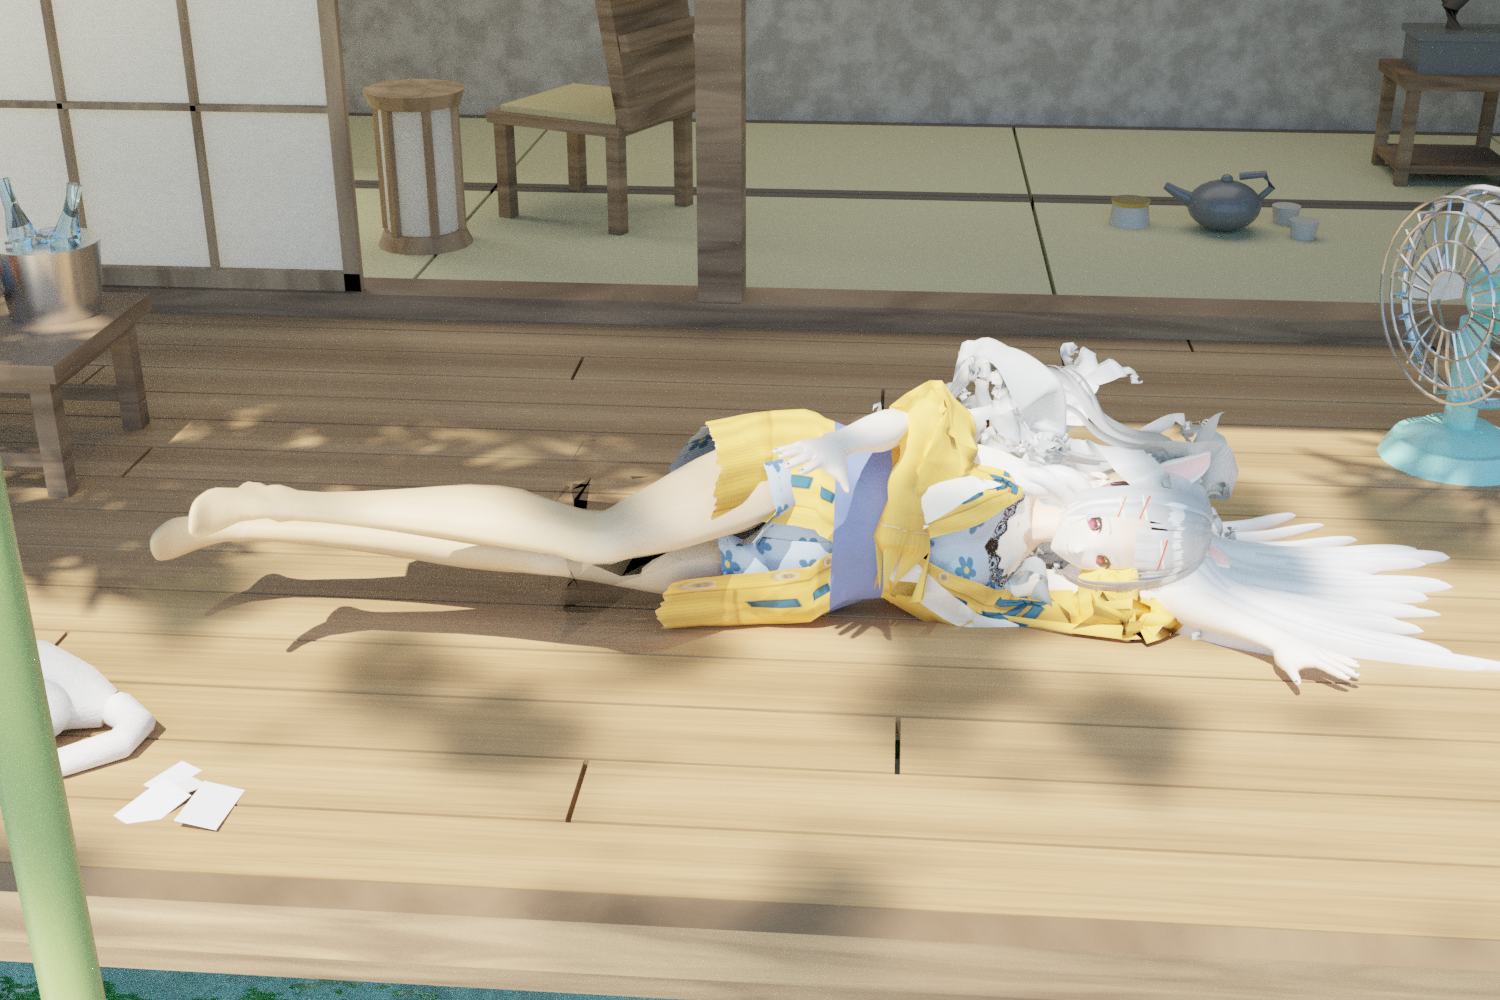
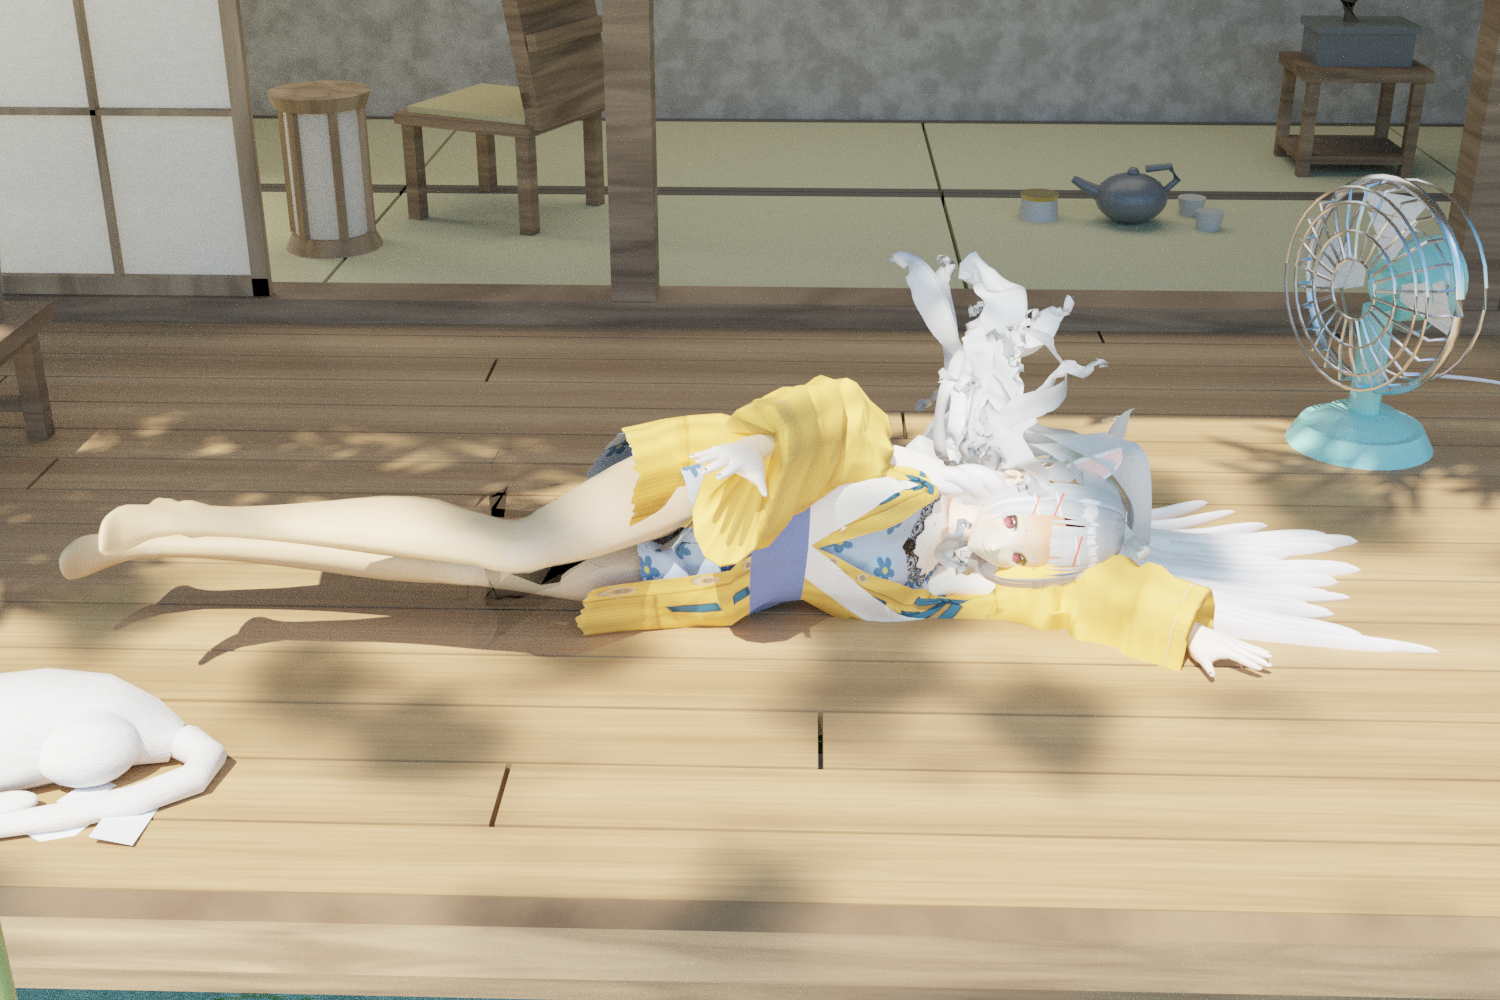
Shear the long hair cards and let the grown locks be the hair
Simulating the long cards was honest physics and a bad picture. They fall, they
spread, they collide -- and each one is a wide flat ribbon with an alpha-cut
tip, so a couple of dozen falling onto each other and onto her shoulder buckle
and knot into a pile of crumpled paper with a spike standing out of it. No
stiffness setting fixes that. The primitive is wrong, which is what you said
about the hair three messages before I believed it.

So the long cards are deleted and the same hair is re-grown by build_spread as
many thin locks. What stays rigid is the cap and the fringe -- the part that
makes the haircut, and that has no length to fall with. The rigid threshold
also came down from 0.25: at that value the "haircut" still included flaps
reaching 18 cm from the scalp, fine standing where they hang beside her head,
and a paper pile standing straight off her once she is on her side.

The locks start on the back of the skull, which two failures bracket. Started
at the head joint -- the middle of her head -- the near-side locks began level
with her cheek and crossed her face. Started a full skull behind it they began
past her head altogether and left the crown bare, and with the cards sheared
what shows through a gap there is dark scalp.

Claude-Session: https://claude.ai/code/session_01KdiKTGuNFyVJk3TLR4SJ8Q

diff --git a/CharacterPrototype/tools/blender_hairsim.py b/CharacterPrototype/tools/blender_hairsim.py
@@ -30,6 +30,7 @@ spread comes out of the motion rather than having to be authored.
 import os
 import sys
 
+import bmesh
 import bpy
 from mathutils import Vector
 
@@ -53,7 +54,13 @@ ROOT_MARGIN = 0.030
 # quarters of them reach under 0.11 m, and the next ones up reach 0.54 m, with
 # nothing in between. That gap is the haircut on one side and the long hair on
 # the other, so it is where the line goes: 124 cards keep their shape, 28 fall.
-RIGID_REACH = 0.250
+# Lowered from 0.25 after seeing the full frame. At 0.25 the 124 "haircut"
+# cards included flaps reaching 18 cm from the scalp -- fine standing, where
+# they hang beside her head, and a pile of crumpled paper standing straight up
+# off her once she is on her side. Only the cards that genuinely cap the scalp
+# should be rigid; anything with real length has to be allowed to fall, which
+# is the whole point of lying her down.
+RIGID_REACH = 0.105
 
 
 def log(*a):
@@ -378,3 +385,44 @@ def add_garment_cloth(obj, loose_bones=SLEEVE_BONES, colliders=None):
     pin_all_but(obj, loose_bones)
     return add_cloth(obj, pin_group="ClothPins", settings=GARMENT_CLOTH,
                      self_collision=False, colliders=colliders)
+
+
+def shear_long_cards(obj, centre, rigid_reach=RIGID_REACH):
+    """Delete the cards that have real length, leaving the scalp cap.
+
+    Simulating them was the honest answer and it does work as physics -- they
+    fall, they spread, they collide. It does not work as a PICTURE: each card
+    is a wide flat ribbon with an alpha-cut tip, and a couple of dozen of those
+    falling onto each other and onto her shoulder buckle and knot into a pile
+    of crumpled paper with a spike standing out of it. No amount of stiffness
+    fixes that; the primitive is wrong.
+
+    So the long hair is deleted here and re-grown by blender_hair.build_spread,
+    which draws it as many thin locks instead of a few wide ribbons. What stays
+    is the cap and the fringe, which are what make the haircut, and which have
+    no length to fall with.
+    """
+    mesh = obj.data
+    matrix = obj.matrix_world
+    distance = [(matrix @ v.co - centre).length for v in mesh.vertices]
+
+    doomed = set()
+    cards = 0
+    for island in mesh_islands(mesh):
+        nearest = min(distance[i] for i in island)
+        if max(distance[i] for i in island) - nearest > rigid_reach:
+            doomed.update(island)
+            cards += 1
+    if not doomed:
+        return 0
+
+    bm = bmesh.new()
+    bm.from_mesh(mesh)
+    bm.verts.ensure_lookup_table()
+    bmesh.ops.delete(bm, geom=[bm.verts[i] for i in doomed], context="VERTS")
+    bm.to_mesh(mesh)
+    bm.free()
+    mesh.update()
+    log(f"{obj.name}: sheared {cards} long cards ({len(doomed)} vertices); "
+        f"the spread replaces them")
+    return cards

diff --git a/CharacterPrototype/tools/blender_hair.py b/CharacterPrototype/tools/blender_hair.py
@@ -479,8 +479,8 @@ if __name__ == "__main__":
 SPREAD_SEED = 7
 
 
-def build_spread(origin, away, count=46, deck_z=0.0, reach=(0.30, 0.72),
-                 spread=0.085, wander=0.16, scalp=0.085, radius=0.019,
+def build_spread(origin, away, count=58, deck_z=0.0, reach=(0.30, 0.72),
+                 spread=0.072, wander=0.16, scalp=0.085, radius=0.019,
                  material=None, name="HairSpread", seed=SPREAD_SEED):
     """Locks flowing away from her head across the floor.
 
@@ -518,8 +518,10 @@ def build_spread(origin, away, count=46, deck_z=0.0, reach=(0.30, 0.72),
         # length lying on wood rather than a spoke sticking out of her head.
         path = [
             start,
-            start + away * (length * 0.22) + side * (drift * 0.20)
-            + Vector((0, 0, deck_z + lift + 0.035 - start.z)),
+            start + away * (scalp * 0.75 + length * 0.12) + side * (drift * 0.12)
+            + Vector((0, 0, (start.z - origin.z) * 0.35)),
+            start + away * (scalp * 0.75 + length * 0.30) + side * (drift * 0.30)
+            + Vector((0, 0, deck_z + lift + 0.045 - start.z)),
             start + away * (length * 0.58) + side * (drift * 0.62)
             + Vector((0, 0, deck_z + lift - start.z)),
             start + away * length + side * drift

diff --git a/CharacterPrototype/tools/blender_compose.py b/CharacterPrototype/tools/blender_compose.py
@@ -512,6 +512,12 @@ def drape_hair(root, arm, pose):
     colliders = [deck] + [o for o in bpy.data.objects
                           if o.type == "MESH" and o.name in ("Body", "Face")]
 
+    # The long cards are sheared rather than simulated -- see shear_long_cards
+    # -- and blender_hair.build_spread draws that hair back as thin locks.
+    centre = blender_hairsim.head_centre(arm)
+    for obj in blender_hairsim.hair_objects():
+        blender_hairsim.shear_long_cards(obj, centre)
+
     return blender_hairsim.drape(root, arm, pose, rotation, location,
                                  colliders=colliders)
 
